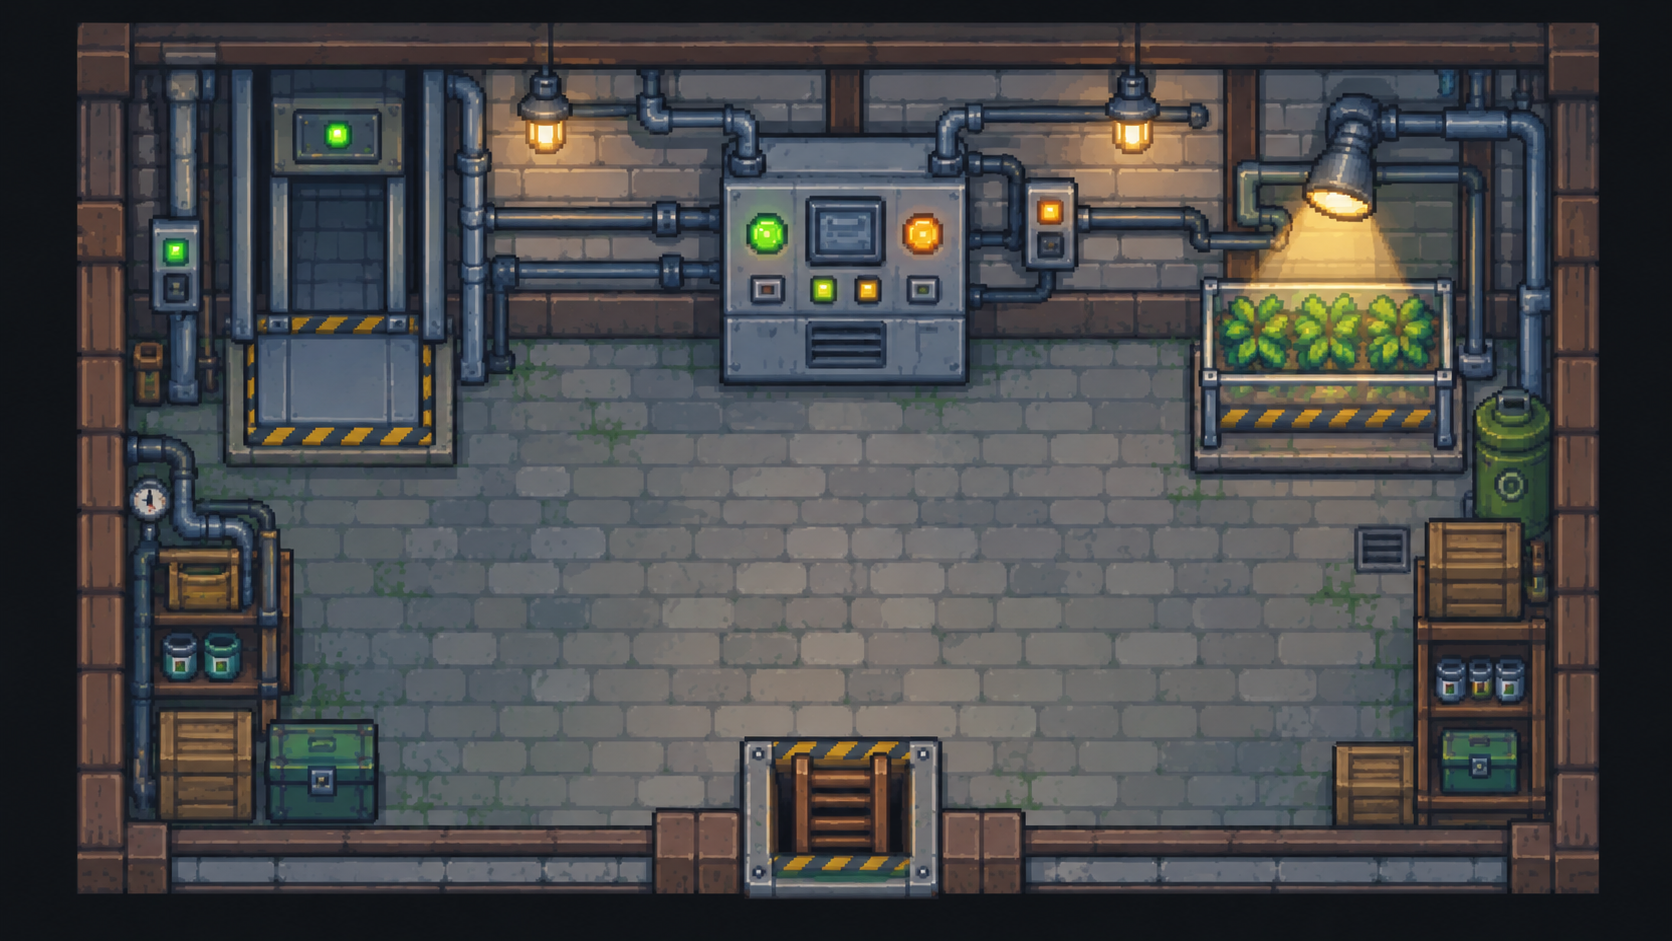
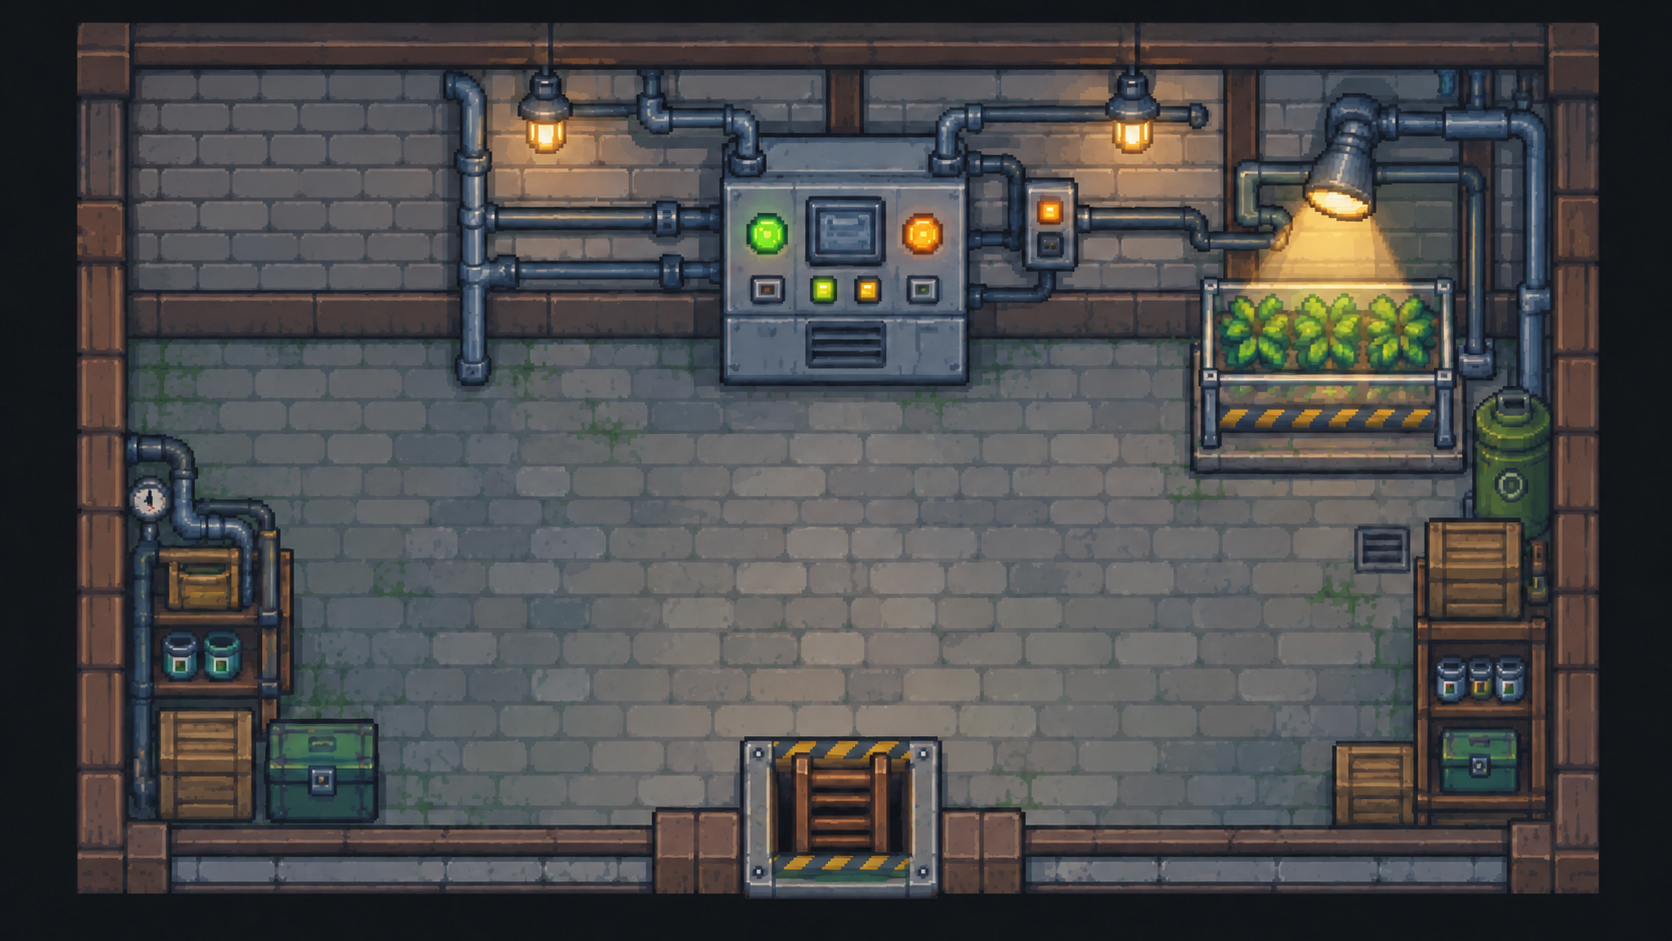
refactor: remove basement elevator

Changed region(s): [[0.0622, 0.0308, 0.311, 0.5239], [0.8708, 0.7088, 0.9019, 0.7396], [0.311, 0.1233, 0.3421, 0.1541]]

diff --git a/src/world.c b/src/world.c
@@ -31,8 +31,6 @@ typedef enum {
     INTERIOR_DOOR,
     LOCKED_HATCH,
     BASEMENT_HATCH,
-    UPPER_LIFT,
-    LOWER_LIFT,
     RELAY_PANEL,
     ENTRANCE_SIGN,
     GARDENER,
@@ -64,8 +62,6 @@ static const MapObject objects[OBJECT_COUNT] = {
     [INTERIOR_DOOR] = {{640, 565}, WORLD_MAINTENANCE},
     [LOCKED_HATCH] = {{846, 416}, WORLD_MAINTENANCE},
     [BASEMENT_HATCH] = {{640, 565}, WORLD_BASEMENT},
-    [UPPER_LIFT] = {{429, 479}, WORLD_EXTERIOR},
-    [LOWER_LIFT] = {{900, 445}, WORLD_BASEMENT},
     [RELAY_PANEL] = {{782, 315}, WORLD_NURSERY},
     [ENTRANCE_SIGN] = {{487, 787}, WORLD_EXTERIOR},
     [GARDENER] = {{630, 507}, WORLD_EXTERIOR},
@@ -222,7 +218,8 @@ static const Rectangle depot_furniture[] = {
     {850, 265, 80, 125}, {925, 405, 55, 155}, {300, 495, 112, 68}
 };
 static const Rectangle basement_furniture[] = {
-    {300, 327, 148, 48}, {414, 320, 270, 45}, {658, 318, 245, 58},
+    {300, 260, 114, 82}, /* Parede de tijolos à esquerda, acima do piso livre. */
+    {414, 320, 270, 45}, {658, 318, 245, 58},
     {910, 325, 67, 132}, {300, 426, 77, 130}, {918, 430, 58, 125},
     {300, 548, 300, 28}, {680, 548, 300, 28}
 };
@@ -637,7 +634,7 @@ static void talk_to_gardener(World *world, const char *player_name)
         second = "O depósito é o prédio grande de telhado terracota, acima de mim. Vença a Babosa e leve a chave até a casa de manutenção.";
     } else if (!world->light) {
         first = "Você trouxe a chave! Obrigada. Agora falta acender o refletor. Entre na manutenção e desça pela escotilha.";
-        second = "No subsolo, ligue a energia no painel e volte pela escotilha. O elevador para quando a energia vai para o refletor.";
+        second = "No subsolo, ligue o refletor no painel. Depois, volte pela mesma escotilha; o caminho continua livre.";
     } else if (world->alarm) {
         first = "Olha o refletor aceso! As plantas já estavam sentindo falta. Pode me ajudar com mais uma coisa? O alarme ainda está ligado.";
         second = world->water ?
@@ -711,9 +708,7 @@ static void talk_to_researcher(World *world, const char *player_name)
 
 static HudInteractionState interaction_state(const World *world, Object object)
 {
-    if ((object == UPPER_LIFT && !world->basement_visited) ||
-        ((object == UPPER_LIFT || object == LOWER_LIFT) && world->light) ||
-        (object == LOCKED_HATCH && !world->maintenance_key) ||
+    if ((object == LOCKED_HATCH && !world->maintenance_key) ||
         (object == NURSERY_DOOR && !world_gate_open(world)) ||
         (object == RELAY_PANEL && !world->guardian_defeated)) return HUD_INTERACTION_BLOCKED;
     return HUD_INTERACTION_AVAILABLE;
@@ -773,13 +768,6 @@ WorldEncounter world_interact(World *world, Vector2 *feet, const char *player_na
             travel(world, feet, WORLD_MAINTENANCE,
                    (Vector2){objects[LOCKED_HATCH].position.x,
                              objects[LOCKED_HATCH].position.y + 54});
-            break;
-        case UPPER_LIFT:
-            if (world->basement_visited && !world->light)
-                travel(world, feet, WORLD_BASEMENT, objects[LOWER_LIFT].position);
-            break;
-        case LOWER_LIFT:
-            if (!world->light) travel(world, feet, WORLD_EXTERIOR, objects[UPPER_LIFT].position);
             break;
         case RELAY_PANEL: world->relay_panel_open = world->guardian_defeated; break;
         case ENTRANCE_SIGN:
@@ -1047,14 +1035,10 @@ static void draw_tiled_exterior(const World *world, Texture2D atlas)
     draw_map_sprite(atlas, (Rectangle){216, 316, 23, 30}, objects[CANAL_NOTE].position, 11);
     draw_map_sprite(atlas, (Rectangle){248, 316, 18, 16}, objects[DRAIN].position, 9);
     draw_map_sprite(atlas, (Rectangle){376, 316, 25, 20}, objects[VALVE].position, 12);
-    draw_map_sprite(atlas, (Rectangle){408, 316, 19, 23}, objects[UPPER_LIFT].position, 9);
     Vector2 drain = objects[DRAIN].position;
     DrawCircle((int)drain.x + 14, (int)drain.y - 27, 4, world->drain_open ? LIME : ORANGE);
     Vector2 valve = objects[VALVE].position;
     DrawCircle((int)valve.x + 22, (int)valve.y - 35, 4, world->water ? LIME : ORANGE);
-    Vector2 lift = objects[UPPER_LIFT].position;
-    bool lift_available = world->basement_visited && !world->light;
-    DrawCircle((int)lift.x + 16, (int)lift.y - 37, 4, lift_available ? LIME : ORANGE);
 }
 
 static void draw_exterior(const UiTheme *ui, const World *world, const WorldAssets *assets)
@@ -1089,12 +1073,10 @@ static void draw_exterior(const UiTheme *ui, const World *world, const WorldAsse
     }
 
     if (assets->courtyard.id && assets->tiles.id) {
-        draw_map_sprite(assets->tiles, (Rectangle){408, 316, 19, 23}, objects[UPPER_LIFT].position, 9);
         DrawCircle(744, 538, 3, world->drain_open ? LIME : ORANGE);
         DrawCircle(1194, 638, 3, world->water ? LIME : ORANGE);
     } else {
         draw_switch(ui, DRAIN, "Dreno", world->drain_open);
-        draw_switch(ui, UPPER_LIFT, "Elevador", world->basement_visited && !world->light);
     }
 }
 
@@ -1172,14 +1154,11 @@ static void draw_interior(const UiTheme *ui, const World *world, const WorldAsse
             break;
         case WORLD_BASEMENT:
             if (assets->basement_interior.id) {
-                /* Luzes de estado alinhadas ao painel e Ã  grade do elevador da arte. */
+                /* Indicador do painel que alimenta o refletor. */
                 DrawCircle(615, 330, 5, world->light ? (Color){91, 190, 78, 255}
                                                       : (Color){207, 68, 48, 255});
-                DrawCircle(900, 419, 5, world->light ? (Color){207, 68, 48, 255}
-                                                      : (Color){91, 190, 78, 255});
             } else {
                 draw_switch(ui, POWER, "Distribuidor de energia", world->light);
-                draw_switch(ui, LOWER_LIFT, "Elevador", !world->light);
                 draw_room_portal(ui, BASEMENT_HATCH, "Subir pela escotilha", false);
             }
             break;
@@ -1451,8 +1430,6 @@ static const char *interaction_hint(const World *world, Object object)
         [INTERIOR_DOOR] = "Voltar ao pátio",
         [LOCKED_HATCH] = "Descer pela escotilha",
         [BASEMENT_HATCH] = "Subir pela escotilha",
-        [UPPER_LIFT] = "Descer pelo elevador",
-        [LOWER_LIFT] = "Subir pelo elevador",
         [RELAY_PANEL] = "Abrir central de relés",
         [ENTRANCE_SIGN] = "Ler placa do jardim",
         [GARDENER] = "Falar com Lia",
@@ -1460,10 +1437,7 @@ static const char *interaction_hint(const World *world, Object object)
         [RESEARCHER] = "Falar com Íris"
     };
     if (object == DRAIN) return world->drain_open ? "Fechar dreno" : "Abrir dreno";
-    if (object == POWER) return world->light ? "Alimentar elevador" : "Alimentar refletor";
-    if (object == UPPER_LIFT && !world->basement_visited) return "Elevador travado. Use a escotilha primeiro.";
-    if ((object == UPPER_LIFT || object == LOWER_LIFT) && world->light)
-        return "Elevador sem energia. Volte pela escotilha.";
+    if (object == POWER) return world->light ? "Desligar refletor" : "Ligar refletor";
     if (object == LOCKED_HATCH && !world->maintenance_key)
         return "Escotilha trancada. A Babosa guarda a chave.";
     if (object == NURSERY_DOOR && !world_gate_open(world))
@@ -1487,7 +1461,7 @@ HudInteraction world_interaction_view(const World *world, Vector2 feet)
         [ALARM_NOTE]="Bilhete da manutenção", [MAINTENANCE_DOOR]="Casa de manutenção",
         [DEPOT_DOOR]="Depósito", [NURSERY_DOOR]="Viveiro", [BRIDGE_CONTROL_DOOR]="Controle da ponte",
         [INTERIOR_DOOR]="Saída", [LOCKED_HATCH]="Escotilha de manutenção", [BASEMENT_HATCH]="Escotilha",
-        [UPPER_LIFT]="Elevador", [LOWER_LIFT]="Elevador", [RELAY_PANEL]="Central de relés",
+        [RELAY_PANEL]="Central de relés",
         [ENTRANCE_SIGN]="Placa do jardim", [GARDENER]="Lia",
         [TECHNICIAN]="Bento", [RESEARCHER]="Íris"
     };
@@ -1500,7 +1474,7 @@ HudInteraction world_interaction_view(const World *world, Vector2 feet)
         [DEPOT_DOOR]={278, 301}, [NURSERY_DOOR]={1396, 250},
         [BRIDGE_CONTROL_DOOR]={810, 498}, [INTERIOR_DOOR]={640, 528},
         [LOCKED_HATCH]={846, 375}, [BASEMENT_HATCH]={640, 539},
-        [UPPER_LIFT]={430, 434}, [LOWER_LIFT]={900, 426}, [RELAY_PANEL]={782, 296},
+        [RELAY_PANEL]={782, 296},
         [ENTRANCE_SIGN]={483, 747},
         [GARDENER]={630, 454}, [TECHNICIAN]={868, 547}, [RESEARCHER]={790, 432}
     };

diff --git a/tools/check_name_entry.c b/tools/check_name_entry.c
@@ -385,8 +385,7 @@ static void check_greenhouse(Game *game)
     walk_axis(game, true, 630);
     assert(game->player.feet.x < 622); /* Os pés da jardineira bloqueiam a passagem. */
     walk_axis(game, false, 479);
-    interact_at(game, 429, 479);
-    assert(world->location == WORLD_EXTERIOR && !world->basement_visited);
+    assert(world_interaction_view(world, (Vector2){429,479}).state == HUD_INTERACTION_NONE);
     enter_maintenance(game);
     Camera2D room_camera = world_camera(world);
     assert(fabsf(room_camera.zoom - (1280.0f / 720.0f) * 0.68f) < 0.001f);
@@ -461,16 +460,16 @@ static void check_greenhouse(Game *game)
     interact_at(game, 846, 416);
     assert(world->location == WORLD_BASEMENT && world->basement_visited);
     capture(game, target, "build/name_entry_preview/greenhouse_basement.png");
-    walk_axis(game, false, 480);
-    interact_at(game, 890, 445);
-    assert(world->location == WORLD_EXTERIOR);
-    key(game, KEY_E);
+    Vector2 clear_floor = world_constrain(world, (Vector2){350,390}, (Vector2){350,360});
+    assert(clear_floor.x == 350 && clear_floor.y == 360);
+    assert(world_interaction_view(world, (Vector2){890,445}).state == HUD_INTERACTION_NONE);
+    interact_at(game, 640, 572);
+    assert(world->location == WORLD_MAINTENANCE);
+    interact_at(game, 846, 416);
     assert(world->location == WORLD_BASEMENT);
     interact_at(game, 640, 320);
     assert(world->light);
-    walk_axis(game, false, 480);
-    interact_at(game, 890, 445);
-    assert(world->location == WORLD_BASEMENT); /* O refletor desligou o elevador. */
+    assert(world_interaction_view(world, (Vector2){890,445}).state == HUD_INTERACTION_NONE);
     interact_at(game, 640, 572);
     assert(world->location == WORLD_MAINTENANCE);
     interact_at(game, 640, 572);
@@ -620,7 +619,7 @@ static void check_greenhouse(Game *game)
     key(game, KEY_ENTER);
     assert(game->screen == GAME_MENU);
     UnloadRenderTexture(target);
-    puts("PASS: diálogos, placas, prédios, guardiões, chave, elevador, ponte, pistas e saída.");
+    puts("PASS: diálogos, placas, prédios, guardiões, chave, subsolo, ponte, pistas e saída.");
 }
 
 int main(void)

diff --git a/docs/CAMPAIGN_GREENHOUSE.md b/docs/CAMPAIGN_GREENHOUSE.md
@@ -7,7 +7,7 @@ Use **WASD** ou **setas** para mover, segure **Shift** para correr e pressione
 ## Prédios e acesso ao viveiro
 
 A câmera acompanha o personagem no exterior e se reposiciona ao atravessar
-uma porta, usar o elevador ou voltar ao pátio após uma derrota. A casa de
+uma porta, atravessar a escotilha ou voltar ao pátio após uma derrota. A casa de
 manutenção, o depósito e o viveiro têm fachadas sólidas e interiores próprios.
 Os interiores mantêm 720 × 420 unidades lógicas, centralizados com margens
 e zoom 1, sem ampliação para preencher a tela, inclusive no modo tela cheia.
@@ -40,9 +40,9 @@ avança ou encerra a conversa. **Esc** fecha a caixa.
 1. Entre no depósito e vença a Babosa para receber a **Chave da Manutenção**.
 2. Na casa de manutenção, desative o alarme, registre a pista e abra a
    escotilha com a chave. A escotilha dá o primeiro acesso ao subsolo.
-3. No subsolo, o distribuidor alimenta o elevador ou o refletor. O elevador
-   vira um atalho após a primeira descida. Quando a energia vai para o
-   refletor, a escotilha continua disponível para voltar.
+3. No subsolo, ligue o refletor no painel de energia e retorne pela escotilha.
+   A escotilha conecta o subsolo à casa de manutenção em ambos os sentidos,
+   independentemente do estado do refletor.
 4. A válvula da água e a segunda pista ficam do outro lado da ponte. A porta
    do viveiro abre quando `Água E Luz E NÃO Alarme` vale. Depois da primeira
    entrada, a porta permanece liberada.
@@ -120,7 +120,7 @@ cmake --build build --target plants_x_plants name_entry_check
 
 O teste percorre a missão depois de confirmar o nome. Verifica a colisão
 das fachadas e paredes, as oito combinações da ponte e suas duas soluções,
-a escotilha e o elevador antes e depois da chave, o retorno
+a escotilha antes e depois da chave, o retorno
 com progresso após derrota, o acesso ao viveiro e a coleta de pistas.
 Também valida a solução única entre as 256 configurações da central, o
 avanço guiado, o retorno a uma regra quebrada e a conclusão.

diff --git a/docs/ARCHITECTURE.md b/docs/ARCHITECTURE.md
@@ -218,7 +218,7 @@ O combate da campanha inclui:
 - Visual provisório, sem depender de sprites finalizados.
 
 Após personagem e nome, a campanha abre um mapa com câmera, fachadas e interiores conectados
-por portas, escotilha e elevador. Guardiões e controles distribuídos liberam
+por portas e escotilha. Guardiões e controles distribuídos liberam
 a central de relés, que valida nove restrições antes da saída.
 A progressão por arenas,
 recrutamento e evolução permanece planejada.

diff --git a/docs/COURTYARD_DETAIL.md b/docs/COURTYARD_DETAIL.md
@@ -84,7 +84,7 @@ correção com o modo de execução. Capturas das quatro posições da câmera f
 em `build/courtyard_detail_preview/corner_<índice>_1080p.png`.
 
 `name_entry_check` verifica F8, portas, colisões existentes, guardiões, chave,
-elevador, ponte, pistas e conclusão da campanha. As capturas em Full HD da
+subsolo, ponte, pistas e conclusão da campanha. As capturas em Full HD da
 interface ficam em `build/name_entry_preview/`.
 
 ## Prompt da edição integrada
